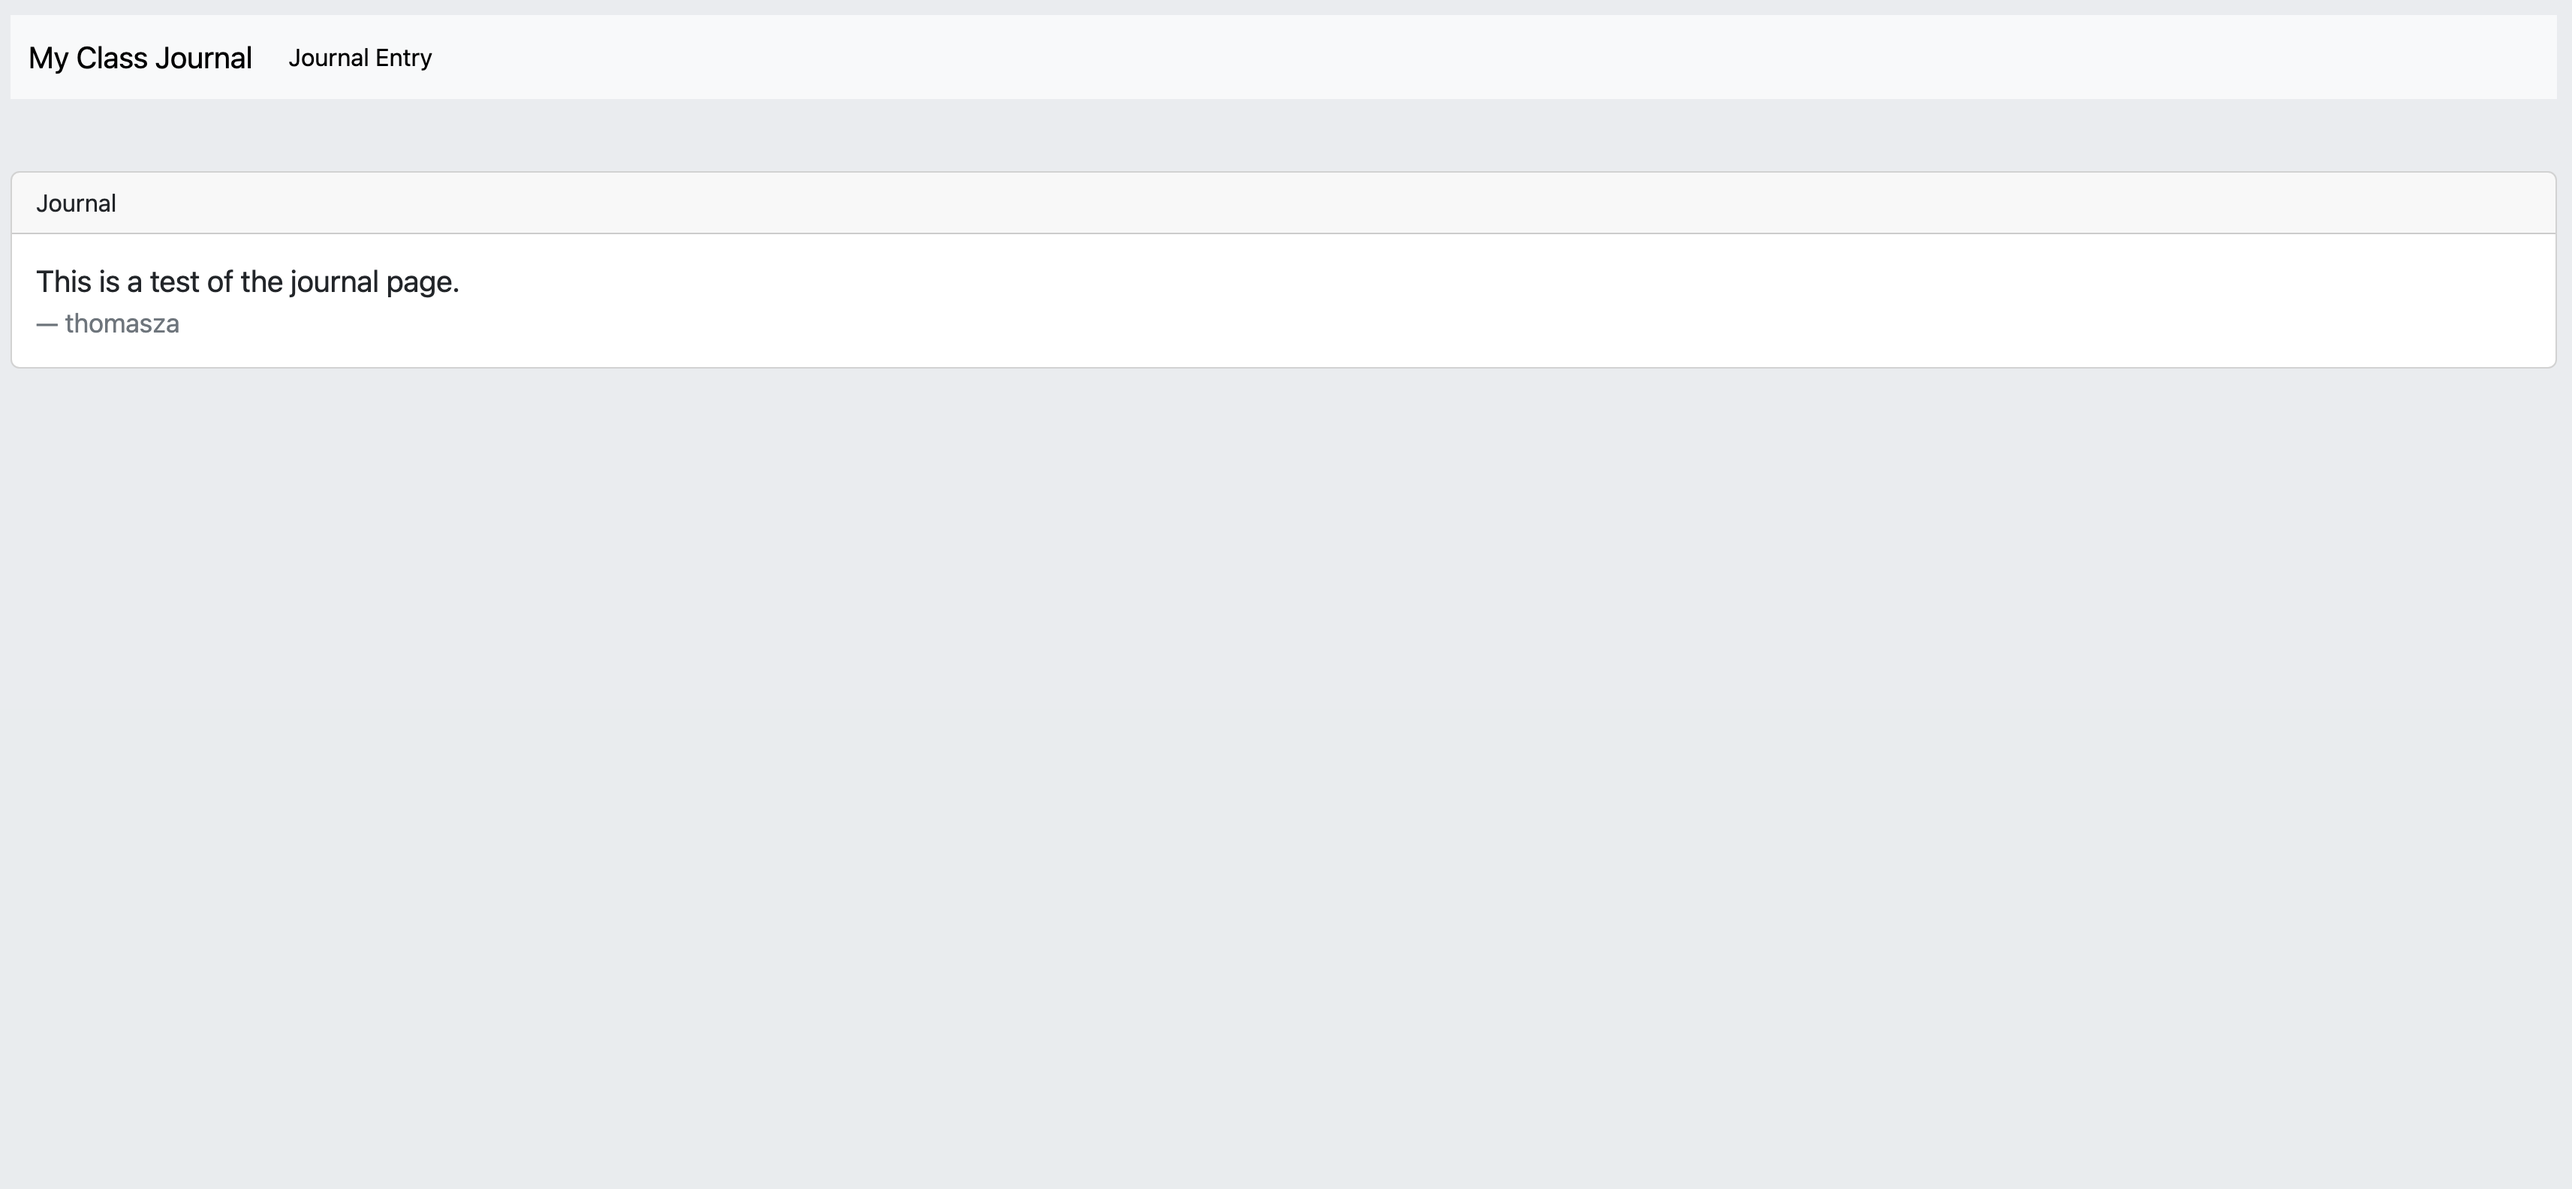
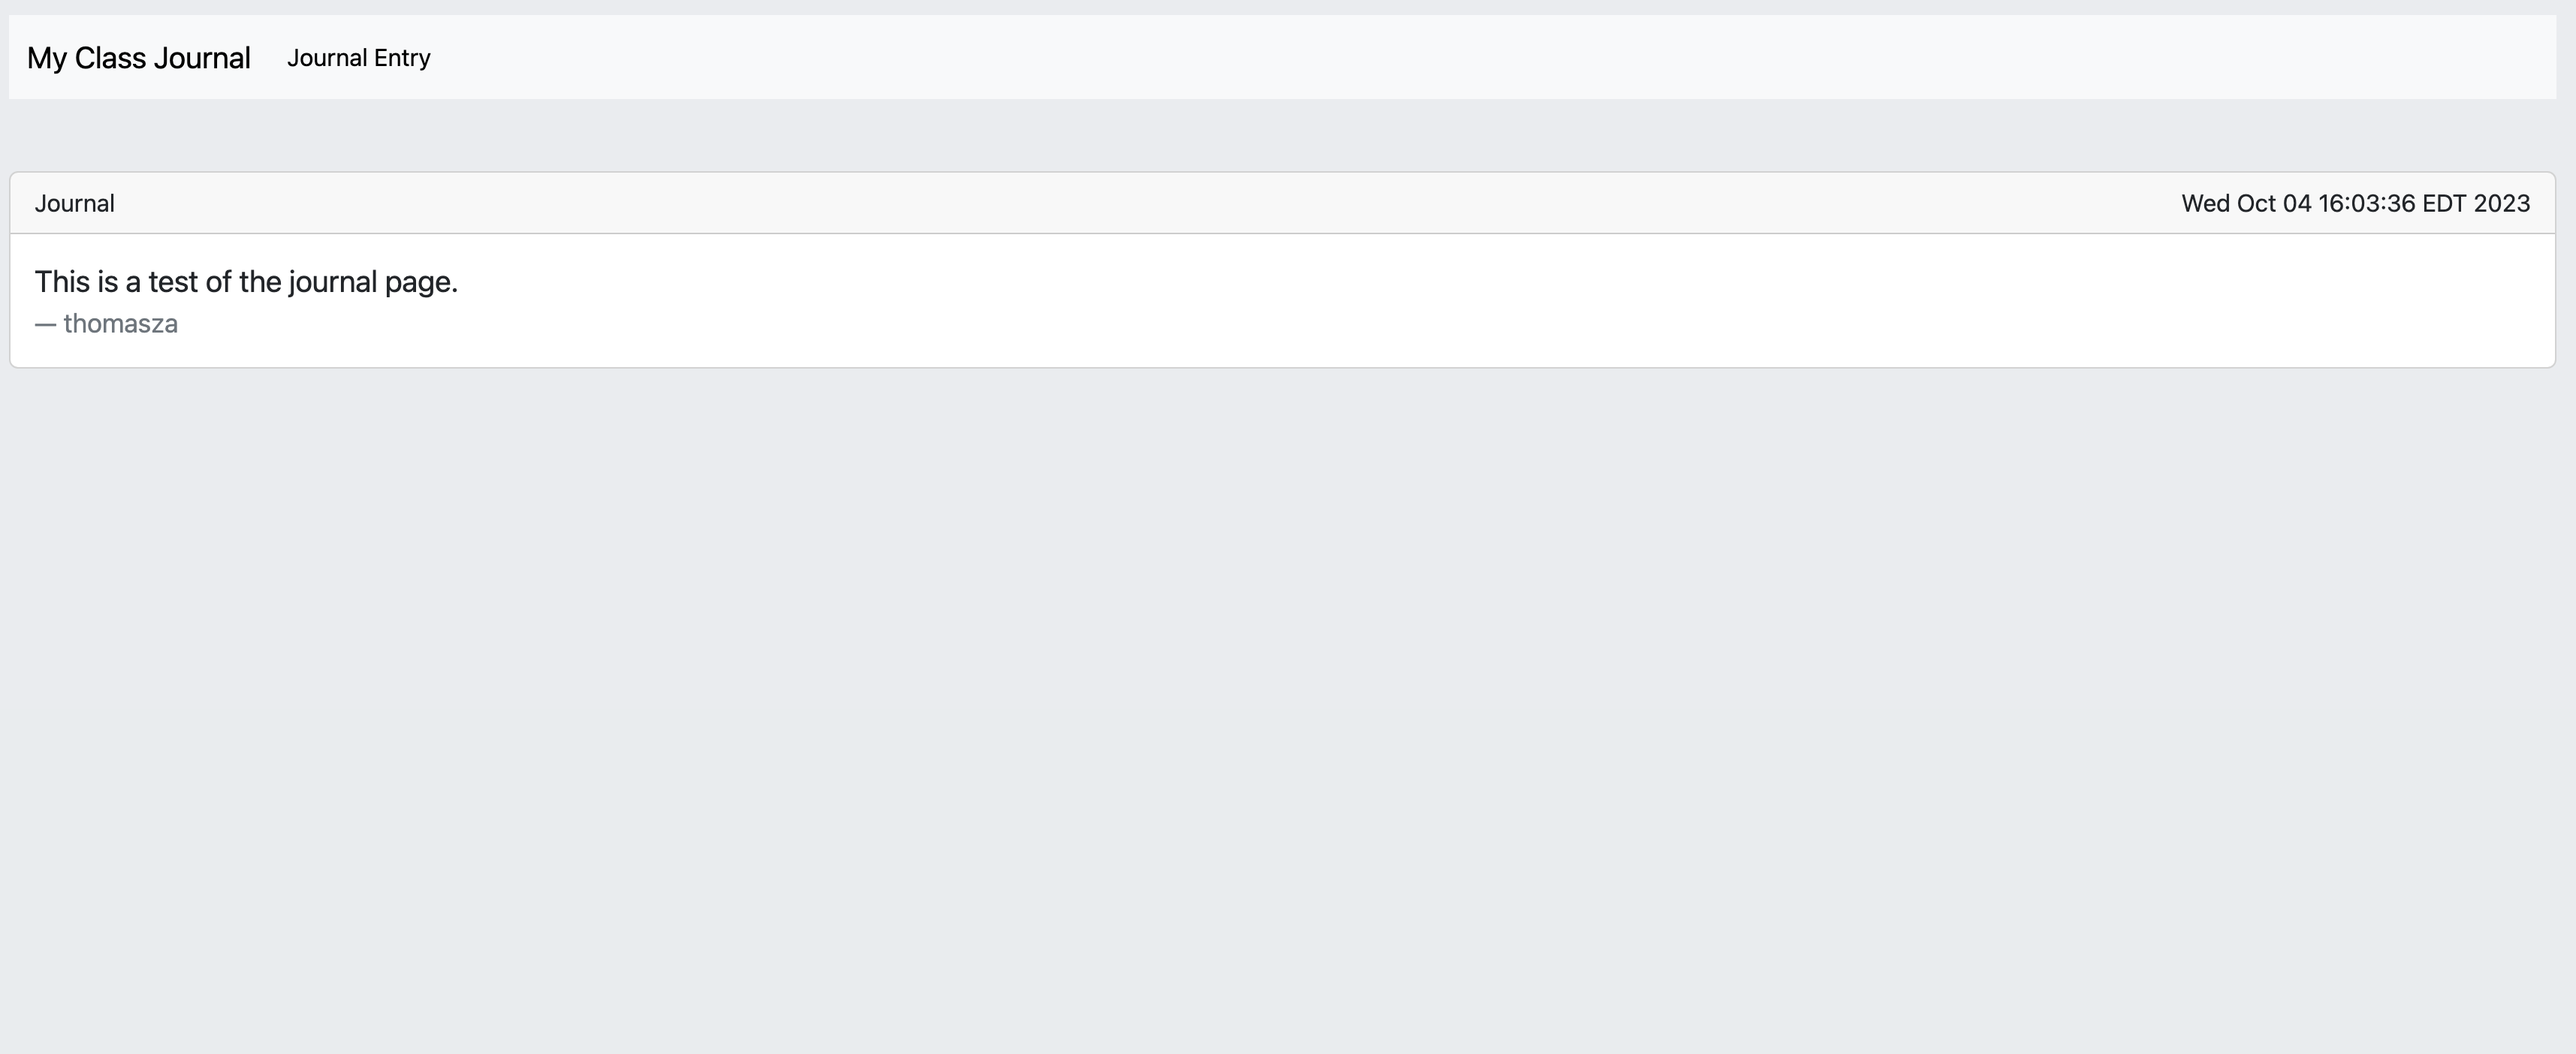
fix backend logic I was confused on, update screenshots, add javadoc.

Changed region(s): [[0.0, 0.1531, 0.1874, 0.3369], [0.0, 0.0306, 0.1874, 0.0613], [0.8433, 0.1838, 0.9994, 0.2144]]

diff --git a/src/main/resources/templates/layout.html b/src/main/resources/templates/layout.html
@@ -1,3 +1,9 @@
+<!--
+
+this is the layout page, uses thymeleaf and thymeleaf layout dialect.
+has a basic bootstrap navbar and pages are injected into layout content section.
+
+-->
 <!DOCTYPE html>
 <html lang="en"
       xmlns:th="http://www.thymeleaf.org"
@@ -32,7 +38,7 @@
 </nav>
 <br/><br/>
 <div layout:fragment="content">
-<p>should be replaced by content template</p>
+<p>loading...</p>
 </div>
 <script src="https://cdn.jsdelivr.net/npm/@popperjs/core@2.11.8/dist/umd/popper.min.js" integrity="sha384-I7E8VVD/ismYTF4hNIPjVp/Zjvgyol6VFvRkX/vR+Vc4jQkC+hVqc2pM8ODewa9r" crossorigin="anonymous"></script>
 <script src="https://cdn.jsdelivr.net/npm/bootstrap@5.3.2/dist/js/bootstrap.bundle.min.js" integrity="sha384-C6RzsynM9kWDrMNeT87bh95OGNyZPhcTNXj1NW7RuBCsyN/o0jlpcV8Qyq46cDfL" crossorigin="anonymous"></script>

diff --git a/src/main/resources/templates/entry.html b/src/main/resources/templates/entry.html
@@ -1,3 +1,9 @@
+<!--
+
+this is the journal entry page, where you can type out your journal entry.
+eventually will POST to database, so we can GET from home page.
+
+-->
 <!DOCTYPE html>
 <html lang="en" xmlns:th="http://www.thymeleaf.org"
       xmlns:layout="http://www.ultraq.net.nz/thymeleaf/layout"
@@ -19,7 +25,7 @@
     </div>
     <div class="card-body">
         <div class="form-outline">
-            <textarea class="form-control" id="textArea" rows="8" aria-label="journal entry text area"></textarea>
+            <textarea class="form-control" id="textArea" placeholder="Type your journal entry here" rows="8" aria-label="journal entry text area"></textarea>
             <br/>
         </div>
         <form method="POST" th:action="@{/postEntry(date=${#execInfo.now.time})}">

diff --git a/src/main/resources/templates/index.html b/src/main/resources/templates/index.html
@@ -1,3 +1,8 @@
+<!--
+
+this is the home page, where all the journal entries are displayed by date.
+
+-->
 <!DOCTYPE html>
 <html lang="en" xmlns:th="http://www.thymeleaf.org"
       xmlns:layout="http://www.ultraq.net.nz/thymeleaf/layout"
@@ -8,7 +13,14 @@
 <body>
 <div layout:fragment="content" class="card">
     <div class="card-header">
-        Journal
+        <div class="row align-items-center">
+            <div class="col">
+                Journal
+            </div>
+            <div class="col text-end text-nowrap">
+                <th:block th:text="${#execInfo.now.time}"></th:block>
+            </div>
+        </div>
     </div>
     <div class="card-body">
         <blockquote class="blockquote mb-0">

diff --git a/src/main/java/edu/uc/cech/soit/myclassjournal/dao/JournalService.java b/src/main/java/edu/uc/cech/soit/myclassjournal/dao/JournalService.java
@@ -2,26 +2,36 @@ package edu.uc.cech.soit.myclassjournal.dao;
 
 import edu.uc.cech.soit.myclassjournal.dto.JournalEntry;
 import edu.uc.cech.soit.myclassjournal.service.IJournalService;
-import edu.uc.cech.soit.myclassjournal.service.IJournal;
-import org.springframework.beans.factory.annotation.Autowired;
 import org.springframework.stereotype.Service;
 
+import java.util.ArrayList;
 import java.util.List;
-
+/**
+ * This is the JournalService DAO service, it implements the IJournalService interface and overrides the methods provided.
+ * Uses logic from our Journal repository.
+ * @author Zach Thomas
+ * @version 0.1
+ */
 @Service
 public class JournalService implements IJournalService {
-    @Autowired
-    private IJournal journal;
-    public JournalService(){}
-    public JournalService(IJournal journal){
+    private final Journal journal;
+    public JournalService(Journal journal) {
         this.journal = journal;
     }
-    @Override
-    public void save(JournalEntry journalEntry){
-        journal.save(journalEntry);
-    }
+    /**
+     * Overrides fetchAll() to return journal.fetchAll()
+     * @return journal.fetchAll()
+     */
     @Override
     public List<JournalEntry> fetchAll() {
         return journal.fetchAll();
+    }
+    /**
+     * Overrides save to return journal.save(journalEntry)
+     * @return journal.save(journalEntry)
+     */
+    @Override
+    public void save(JournalEntry journalEntry){
+        journal.save(journalEntry);
     }
 }

diff --git a/src/main/java/edu/uc/cech/soit/myclassjournal/dao/Journal.java b/src/main/java/edu/uc/cech/soit/myclassjournal/dao/Journal.java
@@ -1,21 +1,36 @@
 package edu.uc.cech.soit.myclassjournal.dao;
 
-import edu.uc.cech.soit.myclassjournal.service.IJournal;
+import edu.uc.cech.soit.myclassjournal.service.IJournalService;
 import org.springframework.stereotype.Repository;
 import edu.uc.cech.soit.myclassjournal.dto.JournalEntry;
 
 import java.util.List;
 import java.util.ArrayList;
-
+/**
+ * This is our Journal DAO which acts as a repository and overrides IJournalService methods.
+ * @author Zach Thomas
+ * @version 0.1
+ */
 @Repository
-public class Journal implements IJournal {
+public class Journal implements IJournalService {
+    /**
+     * allJournalEntries is an ArrayList based on our JournalEntry DTO.
+     */
     List<JournalEntry> allJournalEntries = new ArrayList<>();
+
+    /**
+     * Overrides fetchAll() to return ArrayList allJournalEntries.
+     * @return allJournalEntries
+     */
+    @Override
+    public List<JournalEntry> fetchAll() {
+        return allJournalEntries;
+    }
+    /**
+     * Overrides save to add journalEntry from ArrayList allJournalEntries.
+     */
     @Override
     public void save(JournalEntry journalEntry) {
         allJournalEntries.add(journalEntry);
-    }
-    @Override
-    public List<JournalEntry> fetchAll() {
-            return allJournalEntries;
     }
 }

diff --git a/src/main/java/edu/uc/cech/soit/myclassjournal/MyClassJournalController.java b/src/main/java/edu/uc/cech/soit/myclassjournal/MyClassJournalController.java
@@ -2,16 +2,25 @@ package edu.uc.cech.soit.myclassjournal;
 
 import org.springframework.stereotype.Controller;
 import org.springframework.web.bind.annotation.*;
-
+/**
+ * This is the main controller, which handles the page mapping for thymeleaf.
+ * @author Zach Thomas
+ * @version 0.1
+ */
 @Controller
 public class MyClassJournalController {
     /**
-     * @return Handle the endpoints for thymeleaf dialect
+     * Mapping for home page.
+     * @return index
      */
     @GetMapping("/")
     public String index() {
         return "index";
     }
+    /**
+     * Mapping for the entry page.
+     * @return entry
+     */
     @GetMapping("/entry")
     public String entryPage(){ return "entry"; }
 }

diff --git a/src/main/java/edu/uc/cech/soit/myclassjournal/dto/JournalEntry.java b/src/main/java/edu/uc/cech/soit/myclassjournal/dto/JournalEntry.java
@@ -3,12 +3,14 @@ package edu.uc.cech.soit.myclassjournal.dto;
 import lombok.Data;
 
 /**
- * this is our journal entry dto
- * includes fields for Notes and Date
- * using Lombok @Data annotation to generate getters & setters
+ * This is the DTO for our journal entries.
+ * It uses the Lombok @Data annotation to generate our getters & setters.
+ * @author Zach Thomas
+ * @version 0.1
  */
 public @Data class JournalEntry {
     private String Title;
     private String Date;
     private String Notes;
 }
+

diff --git a/src/main/java/edu/uc/cech/soit/myclassjournal/MyClassJournalApplication.java b/src/main/java/edu/uc/cech/soit/myclassjournal/MyClassJournalApplication.java
@@ -3,6 +3,11 @@ package edu.uc.cech.soit.myclassjournal;
 import org.springframework.boot.SpringApplication;
 import org.springframework.boot.autoconfigure.SpringBootApplication;
 
+/**
+ * Main application gateway for Spring Boot.
+ * @author Zach Thomas
+ * @version 0.1
+ */
 @SpringBootApplication
 public class MyClassJournalApplication {
 

diff --git a/src/main/java/edu/uc/cech/soit/myclassjournal/service/IJournalService.java b/src/main/java/edu/uc/cech/soit/myclassjournal/service/IJournalService.java
@@ -1,11 +1,11 @@
 package edu.uc.cech.soit.myclassjournal.service;
 
 import edu.uc.cech.soit.myclassjournal.dto.JournalEntry;
-
 import java.util.List;
 
 /**
  * Journal Service handles business logic for Journal DTOs.
+ *
  */
 public interface IJournalService {
 
